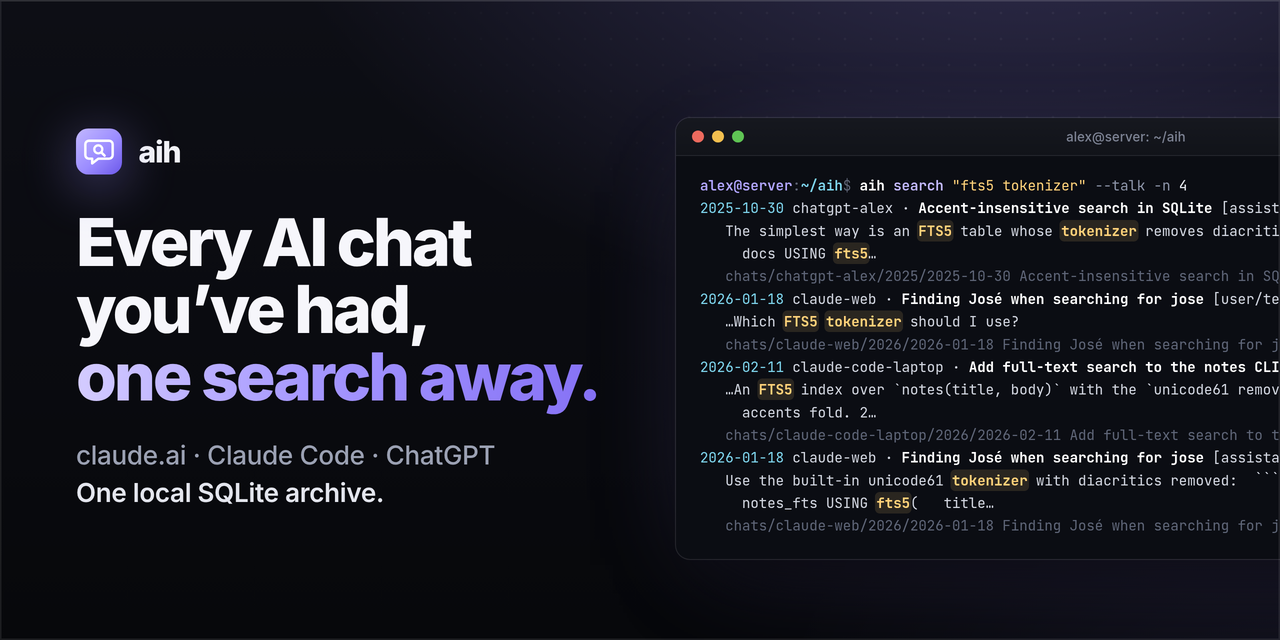
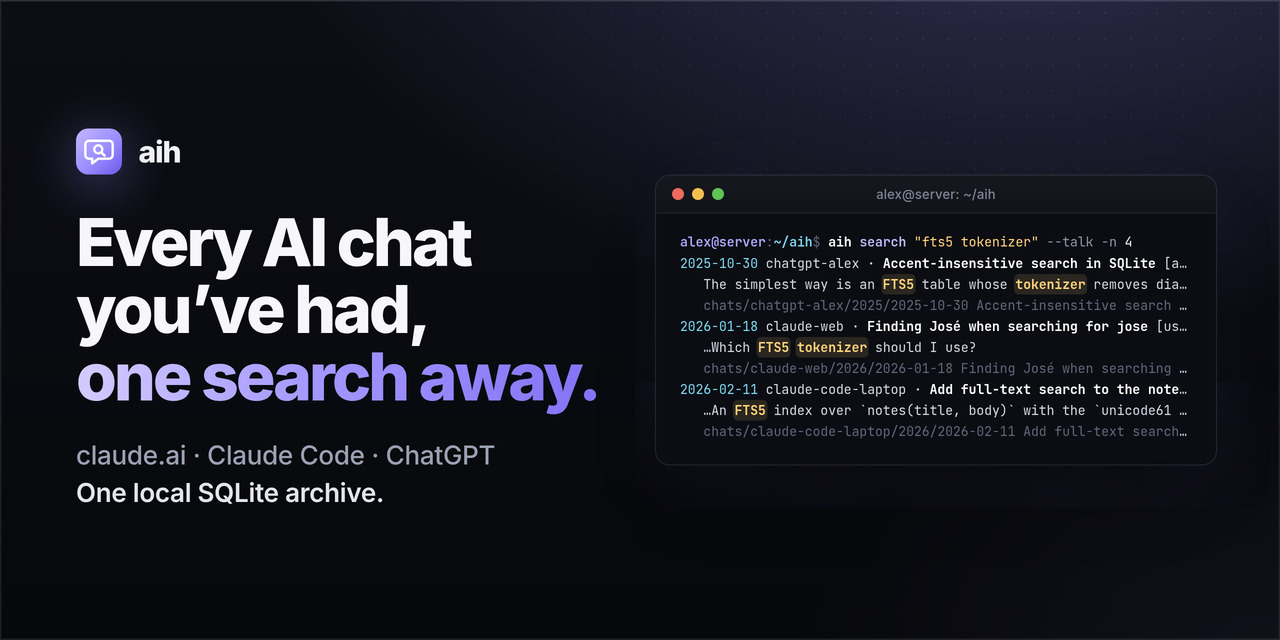
Social preview: even margins, nothing cut off at the edge

Changed region(s): [[0.5, 0.25, 1.0, 0.8438], [0.8438, 0.1875, 0.9375, 0.2188], [0.5312, 0.1875, 0.5938, 0.2188]]

diff --git a/scripts/readme-visuals.py b/scripts/readme-visuals.py
@@ -714,11 +714,13 @@ def architecture_scene(mobile=False):
 
 
 def social():
-    t = terminal([cap('hero')], fs=14, cursor=False)
+    c, out = cap('hero')
+    t = terminal([(c, out[:9])], fs=13, cursor=False)
     inner = (f'<div class="col" style="position:absolute;left:76px;top:0;bottom:0;width:560px;justify-content:center">{brand(30)}'
              '<h1 style="margin-top:34px;font-size:66px;line-height:1.02">Every AI chat<br>you’ve had,<br><span class="grad">one search away.</span></h1>'
              '<p class="lede" style="margin-top:26px;font-size:26px;text-wrap:initial">claude.ai · Claude Code · ChatGPT<br><b>One local SQLite archive.</b></p></div>'
-             f'<div style="position:absolute;left:676px;top:118px;width:900px">{t}</div>')
+             '<style>.sx .ln{white-space:pre;overflow:hidden;text-overflow:ellipsis}</style>'
+             f'<div class="sx" style="position:absolute;right:64px;top:0;bottom:0;width:560px;display:flex;align-items:center"><div style="width:100%">{t}</div></div>')
     return f'<div class="card square" style="width:1280px;height:640px;--gx:80%;--gy:-30%;--gw:1100px;--gh:760px">{inner}</div>'
 
 
